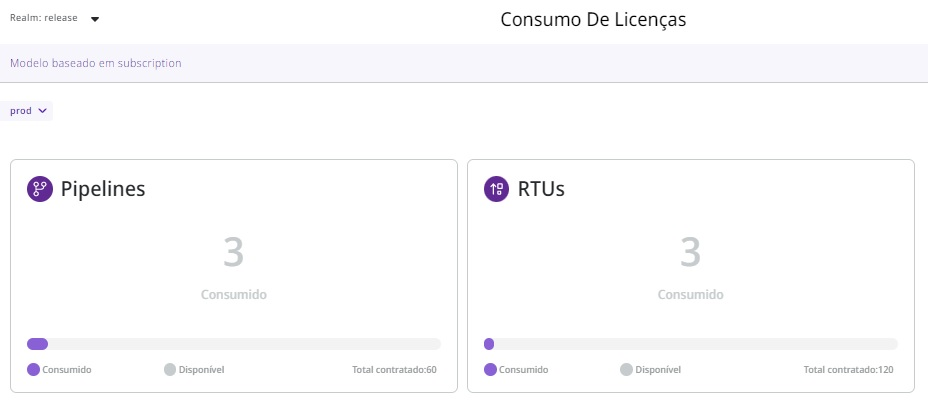
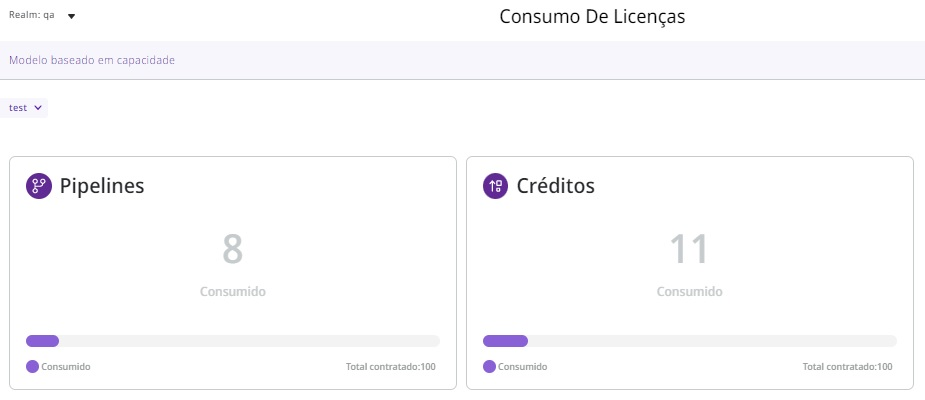
GITBOOK-1123: change request with no subject merged in GitBook

diff --git a/licenciamento/consumo-de-licencas-beta-restrito/consumo-de-licencas-no-modelo-capacity.md b/licenciamento/consumo-de-licencas-beta-restrito/consumo-de-licencas-no-modelo-capacity.md
@@ -1,0 +1,69 @@
+---
+description: >-
+  Saiba mais sobre a página de visualização de seus pipelines e seu consumo de
+  Créditos.
+---
+
+# Consumo de Licenças no modelo Capacity
+
+{% hint style="info" %}
+Essa _feature_ está na fase[ Beta Restrito](https://docs.digibee.com/documentation/v/pt-br/geral/programa-beta) e está disponível apenas para clientes selecionados.
+{% endhint %}
+
+Com o recurso **Consumo de Licenças**, agora você pode rastrear facilmente seus _pipelines_ e Créditos. Você pode obter o número de _pipelines_ para o seu _Realm_, bem como o valor total disponível. Além disso, você pode verificar o número de Créditos disponíveis nos ambientes de _test_ e _prod_ do seu _Realm_, permitindo analisar e implantar seus _pipelines_ com mais eficiência.
+
+## Visão geral do Consumo de Licenças
+
+No modelo baseado em _Capacity_, você pode acompanhar seu uso e gerenciar seus _pipelines_ e os Créditos disponíveis em seu _Realm_. Para acessar esse recurso, vá para `Configurações` no canto superior direito e clique em **Consumo de Licenças** em `Licenciamento` no canto inferior esquerdo da página.
+
+Para acessar esta página, você deve ter recebido a permissão de **visualizador de licença** para sua conta de usuário ou um grupo ao qual você pertence.
+
+<figure><img src="../../.gitbook/assets/01 - gif - credios - port.gif" alt=""><figcaption></figcaption></figure>
+
+### Detalhes
+
+Nesta página, você pode verificar o número de _pipelines_ e Créditos em seu _Realm_ para um ambiente escolhido. A lista de contatos dos responsáveis está localizada no lado direito da página. Você pode procurar por um projeto específico pelo nome usando a área de **BUSCA** na parte inferior da página.&#x20;
+
+Além disso, há um botão **EXPORTAR** próximo à barra de pesquisa que fornece um arquivo `CSV` contendo uma lista com nomes de projetos, ambientes em que se encontram, nome do _pipeline_, tamanho implantado, número de réplicas e Créditos usados.
+
+No final da página, uma lista de todos os seus projetos é exibida, incluindo suas informações como nome do projeto, descrição, ambiente, número de _pipelines_ e Créditos usados.
+
+Para ver uma descrição detalhada de cada projeto, clique no ícone **Ações**. A seguir, verifique cada um desses itens nas seções seguintes.
+
+## Painel de consumo
+
+<figure><img src="../../.gitbook/assets/02 - painel - port.jpg" alt=""><figcaption></figcaption></figure>
+
+Nesta seção, você pode selecionar o ambiente para o qual deseja ver o consumo. Use o menu no canto superior esquerdo para fazer sua escolha. Depois de fazer sua escolha, será exibido o número de _pipelines_ consumidos, disponíveis e contratados, bem como os Créditos associados.&#x20;
+
+Este painel fornece _insights_ e informações que permitem que você tome decisões sobre a alocação e otimização de recursos.
+
+## Informações do projeto
+
+### Busca
+
+Para visualizar os detalhes de consumo de um determinado projeto, use a função de pesquisa. Selecione o projeto na caixa de pesquisa e clique no botão **BUSCA** para obter seus detalhes. Você também pode exportar a lista de consumo dos projetos para um arquivo `CSV` clicando em **EXPORTAR**.
+
+<figure><img src="../../.gitbook/assets/03 - busca - port.jpg" alt=""><figcaption></figcaption></figure>
+
+Como resultado, você obtém uma lista detalhada de cada consumo dos projetos: nome do projeto e descrição, ambiente, quantidade de _pipelines_ no projeto, quantidade de Créditos utilizados e um ícone para clicar em **Ações**.
+
+### Ícone Ações
+
+Para ver informações específicas sobre um projeto selecionado, clique no ícone de Ações para abrir uma aba lateral. Depois que os **Detalhes do projeto** estiverem abertos, você poderá visualizar informações sobre cada _pipeline_ associado a esse projeto.
+
+Essas informações incluem o nome do projeto, o ambiente, o nome do _pipeline_, o tamanho da implantação, o número de réplicas e o número de Créditos usados para a implantação.
+
+<figure><img src="../../.gitbook/assets/04 - detalhes - port.jpg" alt=""><figcaption></figcaption></figure>
+
+### Lista de Projetos
+
+Na parte inferior da página, você encontrará uma lista de todos os projetos no ambiente selecionado. Essa lista contém informações como o nome e a descrição do projeto, o ambiente, o número de _pipelines_, o número de Créditos usados e um ícone de Ações.
+
+<figure><img src="../../.gitbook/assets/05 - lista - port (2).jpg" alt=""><figcaption></figcaption></figure>
+
+## Lista de contatos
+
+No canto superior direito, você encontrará uma lista de contatos contendo os responsáveis pela sua conta. Para enviar um e-mail diretamente a uma pessoa, clique no ícone do e-mail.
+
+<figure><img src="../../.gitbook/assets/06 - contatos - port.jpg" alt=""><figcaption></figcaption></figure>

diff --git a/licenciamento/consumo-de-licencas-beta-restrito/consumo-de-licencas-no-modelo-subscription.md b/licenciamento/consumo-de-licencas-beta-restrito/consumo-de-licencas-no-modelo-subscription.md
@@ -32,7 +32,7 @@ Para ver uma descrição detalhada de cada projeto, clique no ícone **Ações**
 
 ## Painel de consumo
 
-<figure><img src="../../.gitbook/assets/02 - painel - port.jpg" alt=""><figcaption></figcaption></figure>
+<figure><img src="../../.gitbook/assets/02 - painel - port (1).jpg" alt=""><figcaption></figcaption></figure>
 
 Nesta seção, você pode selecionar o ambiente para o qual deseja ver o consumo. Use o menu no canto superior esquerdo para fazer sua escolha. Depois de fazer sua escolha, será exibido o número de _pipelines_ (consumidos, disponíveis e contratados), bem como as RTUs associadas.&#x20;
 
@@ -44,7 +44,7 @@ Este painel fornece _insights_ e informações que permitem que você tome decis
 
 Para visualizar os detalhes de consumo de um determinado projeto, use a função de pesquisa. Selecione o projeto na caixa de pesquisa e clique no botão **BUSCA** para obter seus detalhes. Você também pode exportar a lista de consumo dos projetos para um arquivo `CSV` clicando em **EXPORTAR**.
 
-<figure><img src="../../.gitbook/assets/03 - busca - port.jpg" alt=""><figcaption></figcaption></figure>
+<figure><img src="../../.gitbook/assets/03 - busca - port (1).jpg" alt=""><figcaption></figcaption></figure>
 
 Como resultado, você obtém uma lista detalhada de cada consumo dos projetos: nome do projeto e descrição, ambiente, quantidade de _pipelines_ no projeto, quantidade de RTUs utilizadas e um ícone para clicar em **Ações**.
 
@@ -66,4 +66,4 @@ Na parte inferior da página, você encontrará uma lista de todos os projetos n
 
 No canto superior direito, você encontrará uma lista de contatos contendo os responsáveis pela sua conta. Para enviar um e-mail diretamente a uma pessoa, clique no ícone do e-mail.
 
-<figure><img src="../../.gitbook/assets/06 - contatos - port.jpg" alt=""><figcaption></figcaption></figure>
+<figure><img src="../../.gitbook/assets/06 - contatos - port (1).jpg" alt=""><figcaption></figcaption></figure>

diff --git a/licenciamento/consumo-de-licencas-beta-restrito.md b/licenciamento/consumo-de-licencas-beta-restrito.md
@@ -27,3 +27,5 @@ Você pode ver mais detalhes sobre o projeto clicando no ícone **Ações**.
 Abaixo estão três seções que explicam em detalhes como o **Consumo de Licenças** funciona para cada modelo de licenciamento. Selecione o modelo sobre o qual deseja saber mais a seguir.
 
 {% embed url="https://docs.digibee.com/documentation/v/pt-br/licenciamento/consumo-de-licencas-beta-restrito/consumo-de-licencas-no-modelo-pipeline" %}
+
+{% embed url="https://docs.digibee.com/documentation/v/pt-br/licenciamento/consumo-de-licencas-beta-restrito/consumo-de-licencas-no-modelo-subscription" %}

diff --git a/SUMMARY.md b/SUMMARY.md
@@ -121,6 +121,7 @@
 * [Consumo de Licenças (Beta Restrito)](licenciamento/consumo-de-licencas-beta-restrito.md)
   * [Consumo de Licenças no modelo Pipeline](licenciamento/consumo-de-licencas-beta-restrito/consumo-de-licencas-no-modelo-pipeline.md)
   * [Consumo de Licenças no modelo Subscription](licenciamento/consumo-de-licencas-beta-restrito/consumo-de-licencas-no-modelo-subscription.md)
+  * [Consumo de Licenças no modelo Capacity](licenciamento/consumo-de-licencas-beta-restrito/consumo-de-licencas-no-modelo-capacity.md)
 
 ## Geral
 
